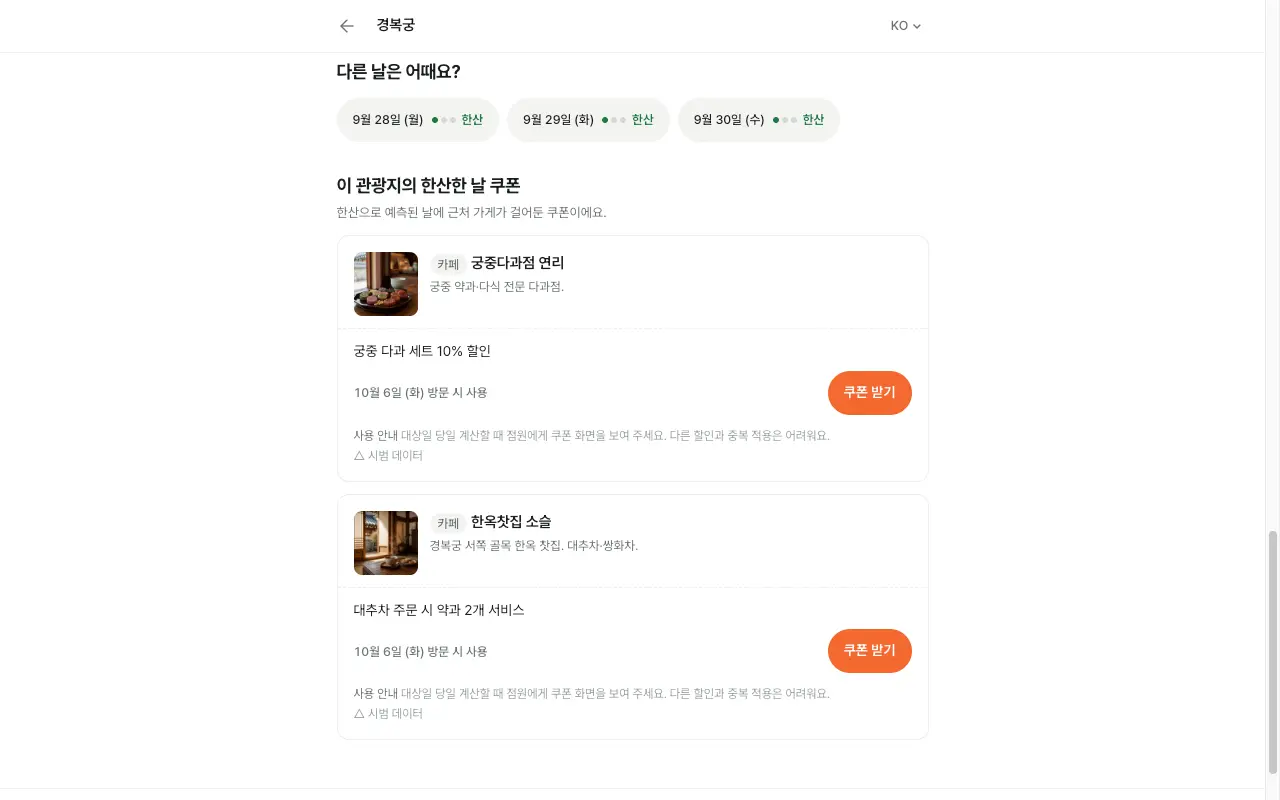
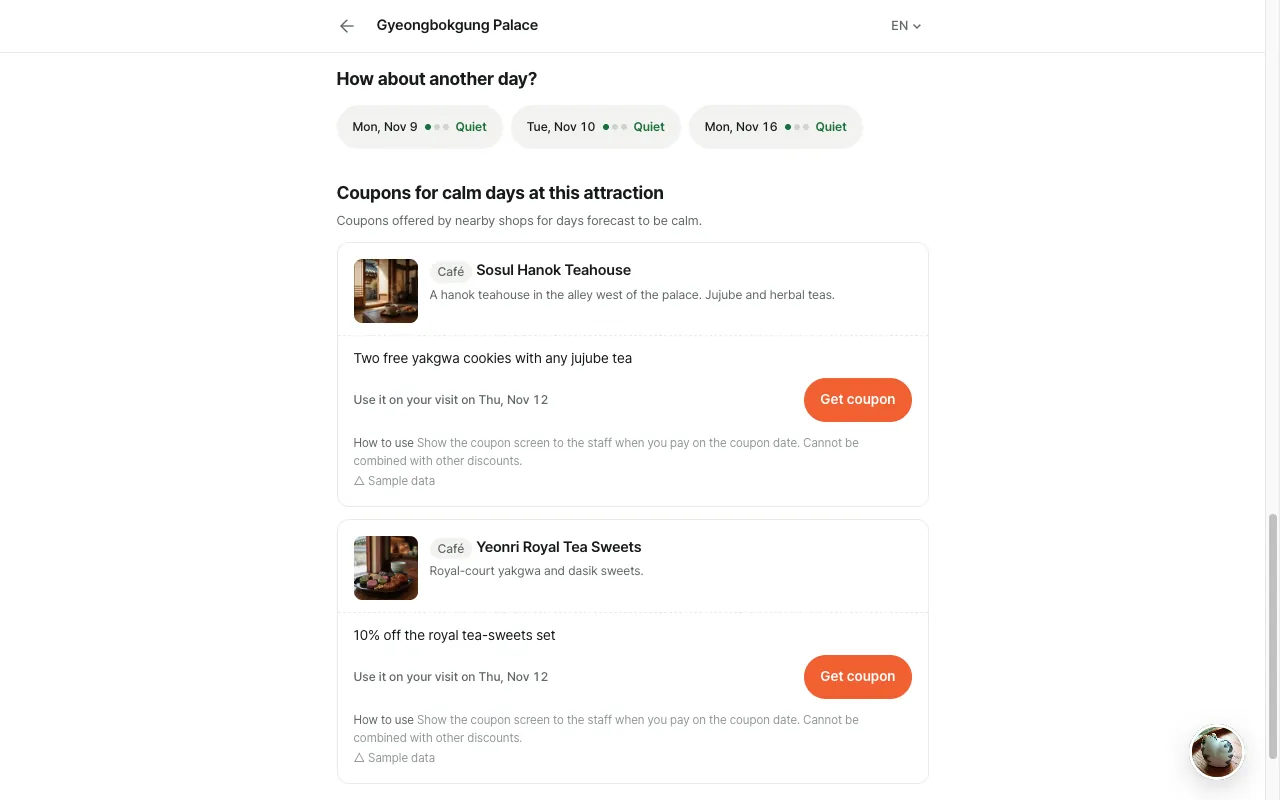
stage6 1/4: remove leftover Korean from English screens
- Demo "picked element" screenshot is per-locale: new English shot of the
  /en/ Gyeongbokgung page (picked-shot.webp), Korean one kept as
  picked-shot.ko.webp, rect and page url follow the locale.
- Loop-closed fallback title is 'Requested change' (same as loop-closed.ts
  and run-access.ts) instead of a Korean phrase.
- Widget appearance validation errors carry code + vars like the starter
  question errors, so the PATCH route localizes them (new en/ko keys).

diff --git a/src/lib/bot/appearance.ts b/src/lib/bot/appearance.ts
@@ -35,7 +35,7 @@ export type AppearanceValues = Partial<Record<AppearanceField, string | null>> &
 
 export type AppearanceResult =
   | { ok: true; values: AppearanceValues }
-  | { ok: false; error: string };
+  | { ok: false; error: string; code: string; vars?: Record<string, string | number> };
 
 const LIMITS: Record<AppearanceField, number> = {
   display_name: 40,
@@ -59,6 +59,17 @@ const LABELS: Record<AppearanceField, string> = {
   visitor_bubble_color: '내 말풍선색',
 };
 
+/** 오류 문구의 입력칸 이름 — 사전 `errors.fields.<키>`(`apiValidation` 이 `vars.field` 를 이 이름으로 바꿔 끼운다). */
+const FIELD_KEYS: Record<AppearanceField, string> = {
+  display_name: 'displayName',
+  status_text: 'statusText',
+  greeting: 'greeting',
+  operator_display_name: 'operatorDisplayName',
+  profile_image_url: 'profileImageUrl',
+  accent_color: 'accentColor',
+  visitor_bubble_color: 'visitorBubbleColor',
+};
+
 /**
  * PATCH body 를 위젯 모양 값으로 정규화한다.
  *
@@ -69,7 +80,7 @@ const LABELS: Record<AppearanceField, string> = {
  */
 export function validateAppearanceInput(body: unknown): AppearanceResult {
   if (typeof body !== 'object' || body === null || Array.isArray(body)) {
-    return { ok: false, error: '잘못된 요청 형식입니다' };
+    return { ok: false, error: '잘못된 요청 형식입니다', code: 'badRequest' };
   }
 
   const input = body as Record<string, unknown>;
@@ -84,7 +95,7 @@ export function validateAppearanceInput(body: unknown): AppearanceResult {
       continue;
     }
     if (typeof raw !== 'string') {
-      return { ok: false, error: `${LABELS[field]} 은(는) 문자열이어야 합니다` };
+      return { ok: false, error: `${LABELS[field]} 은(는) 문자열이어야 합니다`, code: 'notString', vars: { field: FIELD_KEYS[field] } };
     }
 
     const trimmed = raw.trim();
@@ -104,18 +115,25 @@ export function validateAppearanceInput(body: unknown): AppearanceResult {
         return {
           ok: false,
           error: `${LABELS[field]} 은(는) #RRGGBB 형식의 색상 코드여야 합니다`,
+          code: 'colorFormat',
+          vars: { field: FIELD_KEYS[field] },
         };
       }
       values[field] = hex;
       continue;
     }
     if (trimmed.length > LIMITS[field]) {
-      return { ok: false, error: `${LABELS[field]} 은(는) ${LIMITS[field]}자까지 입력할 수 있습니다` };
+      return {
+        ok: false,
+        error: `${LABELS[field]} 은(는) ${LIMITS[field]}자까지 입력할 수 있습니다`,
+        code: 'tooLong',
+        vars: { field: FIELD_KEYS[field], max: LIMITS[field] },
+      };
     }
     if (field === 'profile_image_url' && !isHttpsUrl(trimmed)) {
       // 위젯은 대부분 https 사이트에 붙는다. http 이미지는 혼합 콘텐츠로 차단돼
       // 저장은 됐는데 방문자 화면에는 안 보이는 상태가 된다 — 여기서 막는다.
-      return { ok: false, error: '프로필 이미지는 https:// 로 시작하는 주소만 넣을 수 있습니다' };
+      return { ok: false, error: '프로필 이미지는 https:// 로 시작하는 주소만 넣을 수 있습니다', code: 'profileImageHttps' };
     }
 
     values[field] = trimmed;
@@ -134,13 +152,13 @@ export function validateAppearanceInput(body: unknown): AppearanceResult {
     // 불리언 컬럼에는 「비우겠다」는 상태가 없다 — 다른 필드에서 null 이 「폴백을 쓰겠다」인
     // 것과 규칙이 다르다. 통일하려다 null 을 통과시키면 NOT NULL 제약에 걸려 500 이 된다.
     if (typeof input.starter_faq_fallback !== 'boolean') {
-      return { ok: false, error: '시작 질문 자동 채우기는 true/false 여야 합니다' };
+      return { ok: false, error: '시작 질문 자동 채우기는 true/false 여야 합니다', code: 'starterFallbackBoolean' };
     }
     values.starter_faq_fallback = input.starter_faq_fallback;
   }
 
   if (Object.keys(values).length === 0) {
-    return { ok: false, error: '변경할 항목이 없습니다' };
+    return { ok: false, error: '변경할 항목이 없습니다', code: 'nothingToChange' };
   }
 
   return { ok: true, values };

diff --git a/src/lib/demo/mock-data.ts b/src/lib/demo/mock-data.ts
@@ -121,9 +121,13 @@ function buildDemoData(c: DemoCopy, l: 'en' | 'ko'): Record<DemoPageKey, unknown
   const paymentConvRows = ledger.filter((r) => r.conversationId === DEMO_PAYMENT_CONV);
   const pendingRefund = paymentConvRows.find((r): r is LedgerActionRow => r.type === 'refund' && r.status === 'pending');
   // 「화면에서 선택하기」 예시(I-55) — 데모 사이트 경복궁 페이지에서 「쿠폰 받기」를 짚는 순간 찍은 화면(1280×800).
-  // 정적 자산이라 서명 URL 이 아니다. 좌표는 그 화면에서 실측한 값이다.
+  // 정적 자산이라 서명 URL 이 아니다. 좌표는 그 화면에서 실측한 값이다. 언어마다 찍은 화면이 달라
+  // (영어판 `/en/spots/...` 는 버튼 글자가 길다) 화면 파일·주소·좌표를 같이 바꾼다.
+  const pickPageUrl = l === 'ko'
+    ? 'https://nullnul-tour-demo.vercel.app/spots/gyeongbokgung'
+    : 'https://nullnul-tour-demo.vercel.app/en/spots/gyeongbokgung';
   const DEMO_PICK_CONTEXT = {
-    url: 'https://nullnul-tour-demo.vercel.app/spots/gyeongbokgung',
+    url: pickPageUrl,
     viewport: '1280x800',
     user_agent: 'Mozilla/5.0 (Macintosh; Intel Mac OS X 10_15_7) AppleWebKit/537.36 (KHTML, like Gecko) Chrome/128.0 Safari/537.36',
     target: {
@@ -131,12 +135,12 @@ function buildDemoData(c: DemoCopy, l: 'en' | 'ko'): Record<DemoPageKey, unknown
       tag: 'button',
       selector: 'section:nth-of-type(3) > div:nth-of-type(1) > button',
       text: c.couponButton,
-      rect: { x: 828, y: 371, w: 84, h: 44 },
-      url: 'https://nullnul-tour-demo.vercel.app/spots/gyeongbokgung',
+      rect: l === 'ko' ? { x: 828, y: 371, w: 84, h: 44 } : { x: 804, y: 378, w: 107, h: 44 },
+      url: pickPageUrl,
       shot: '00000000-0000-4000-8000-00000000d1c0',
     },
   };
-  const DEMO_PICK_SHOT = { url: '/demo/picked-shot.webp', width: 1280, height: 800 };
+  const DEMO_PICK_SHOT = { url: l === 'ko' ? '/demo/picked-shot.ko.webp' : '/demo/picked-shot.webp', width: 1280, height: 800 };
   const DEMO_PICKED: PickedShotData = {
     label: c.pickLabel,
     selector: DEMO_PICK_CONTEXT.target.selector,

diff --git a/__tests__/server-locale.test.ts b/__tests__/server-locale.test.ts
@@ -3,6 +3,7 @@ import path from 'node:path';
 import { describe, expect, it } from 'vitest';
 import { explicitWidgetLocale, localeFromAcceptLanguage, localeFromHeaders, localeFromRequest } from '../src/i18n/server-locale';
 import { apiText, apiValidation } from '../src/lib/http/api-text';
+import { validateAppearanceInput } from '../src/lib/bot/appearance';
 import { loadMessages } from './helpers/intl';
 
 const req = (url: string, headers: Record<string, string> = {}) => new Request(`https://x.test${url}`, { headers });
@@ -99,6 +100,33 @@ describe('apiText / apiValidation', () => {
       expect(en, code).not.toMatch(/[가-힣]/);
       expect(apiValidation(req('/x', { cookie: 'NEXT_LOCALE=ko' }), { error: '한국어 폴백', code, vars: { max: 500, count: 3, allowed: 'a, b' } }), code).toMatch(/[가-힣]/);
     }
+  });
+  it('위젯 모양 검증 오류는 영어 요청에 한국어가 섞이지 않는다(입력칸 이름까지)', () => {
+    const bad: unknown[] = [
+      [],
+      { display_name: 1 },
+      { greeting: 'x'.repeat(301) },
+      { accent_color: 'red' },
+      { visitor_bubble_color: 'rgb(1,2,3)' },
+      { profile_image_url: 'http://x.test/a.png' },
+      { starter_faq_fallback: 'false' },
+      { starter_questions: 'x' },
+      {},
+    ];
+    for (const body of bad) {
+      const r = validateAppearanceInput(body);
+      expect(r.ok, JSON.stringify(body)).toBe(false);
+      if (r.ok) continue;
+      const en = apiValidation(req('/x'), r);
+      expect(en, JSON.stringify(body)).not.toMatch(/[가-힣]/);
+      expect(apiValidation(req('/x', { cookie: 'NEXT_LOCALE=ko' }), r), JSON.stringify(body)).toBe(r.error);
+    }
+    const color = validateAppearanceInput({ accent_color: 'red' });
+    expect(color.ok).toBe(false);
+    if (!color.ok) expect(apiValidation(req('/x'), color)).toBe('Accent color must be a color code in #RRGGBB format');
+    const long = validateAppearanceInput({ display_name: 'x'.repeat(41) });
+    expect(long.ok).toBe(false);
+    if (!long.ok) expect(apiValidation(req('/x'), long)).toBe('Display name can be up to 40 characters');
   });
 });
 

diff --git a/__tests__/demo-i18n.test.ts b/__tests__/demo-i18n.test.ts
@@ -121,6 +121,27 @@ describe('가이드 데모 — 영어판에 한국어가 없다', () => {
   it('영어 연습용 데이터(getDemoData)에 한국어가 없다', () => {
     expect(hangul(JSON.stringify(getDemoData('en')))).toBe(0);
   });
+
+  it('「화면에서 선택하기」 예시 화면은 언어마다 그 언어로 찍은 화면이다', () => {
+    type Inbox = {
+      shots: Record<string, Record<string, { url: string }>>;
+      contexts: Record<string, Record<string, { url: string; target: { rect: unknown; url: string } }>>;
+    };
+    const pick = (l: 'en' | 'ko') => {
+      const inbox = getDemoData(l).inbox as Inbox;
+      return { shot: inbox.shots['demo-conv-4']['d4-1'].url, ctx: inbox.contexts['demo-conv-4']['d4-1'] };
+    };
+    const en = pick('en');
+    const ko = pick('ko');
+    expect(en.shot).toBe('/demo/picked-shot.webp');
+    expect(en.ctx.url).toBe('https://nullnul-tour-demo.vercel.app/en/spots/gyeongbokgung');
+    expect(en.ctx.target.url).toBe(en.ctx.url);
+    expect(en.ctx.target.rect).toEqual({ x: 804, y: 378, w: 107, h: 44 });
+    expect(ko.shot).toBe('/demo/picked-shot.ko.webp');
+    expect(ko.ctx.url).toBe('https://nullnul-tour-demo.vercel.app/spots/gyeongbokgung');
+    expect(ko.ctx.target.rect).toEqual({ x: 828, y: 371, w: 84, h: 44 });
+    for (const f of [en.shot, ko.shot]) expect(fs.existsSync(path.resolve(__dirname, `../public${f}`)), f).toBe(true);
+  });
 });
 
 describe('가이드 데모 — 한국어판은 그대로 한국어다', () => {

diff --git a/src/lib/groups/existing-match.ts b/src/lib/groups/existing-match.ts
@@ -374,7 +374,10 @@ export async function closeLoopForRejoins(
           pr_url: run.pr_url,
           pr_number: run.pr_number,
           merged_at: run.merged_at,
-          title: groupRow?.title || '요청하신 내용',
+          // 제목이 없을 때의 대체 글자는 다른 호출처(loop-closed 크론·run-access)와 같은 'Requested change' —
+          // 묶음 제목은 사업자 언어(en)라 영어로 둔다. 본문 언어는 `buildLoopClosedBody` 가 대화 언어로 고르고,
+          // 한국어 대화에는 이 영어 글자 대신 방문자 자신의 말을 인용한다.
+          title: groupRow?.title || 'Requested change',
           merge_commit_sha: run.merge_commit_sha,
         },
         // 메일은 «안» 붙인다(보안 리뷰 HIGH). 아래 주석 참고.
